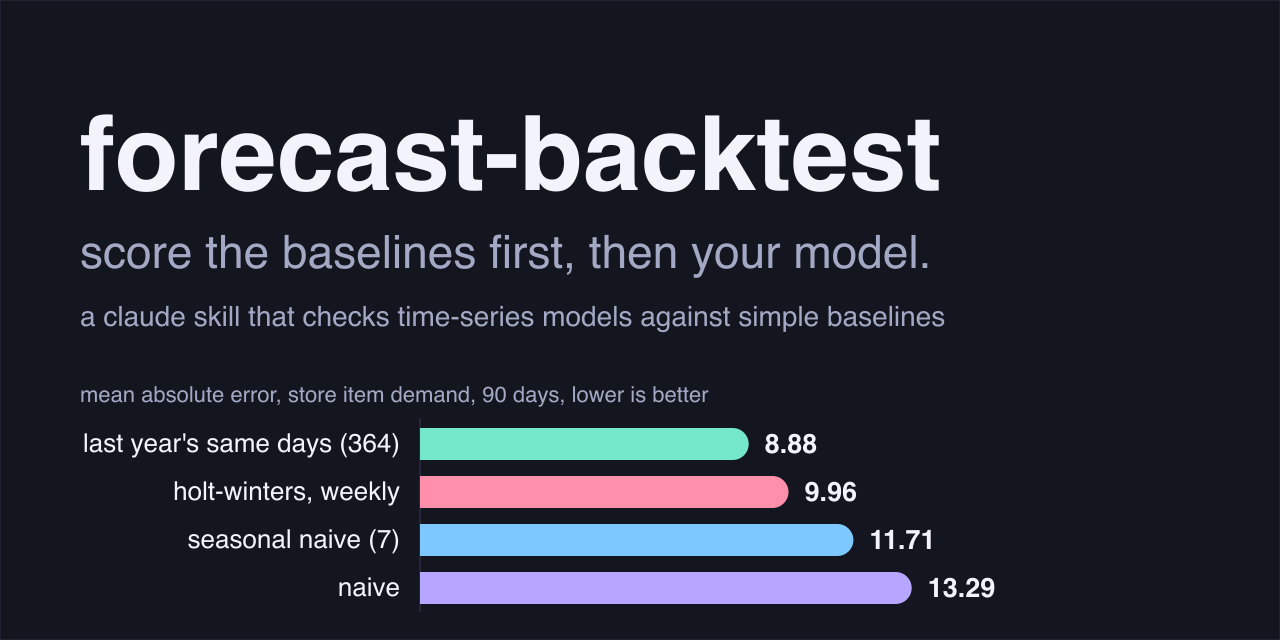
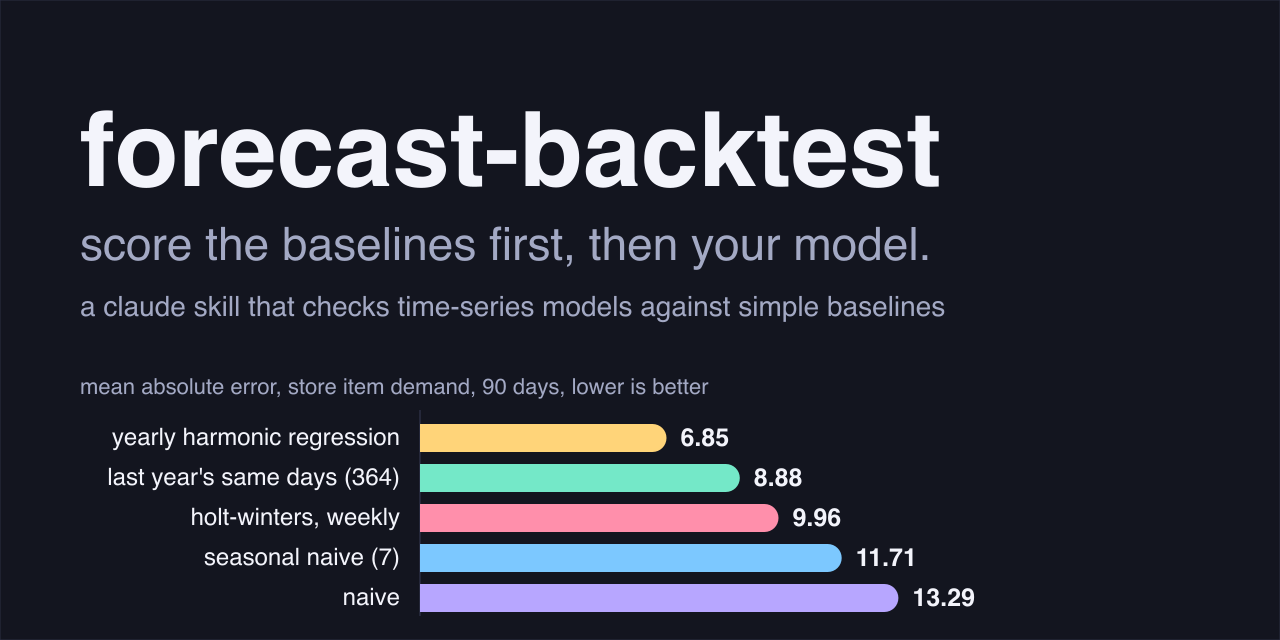
Add a Walmart example and put the yearly model in the chart
A third public dataset: Walmart weekly store sales with a 52-week damped Holt-Winters model (examples/ets_weekly.py), run through the repo file with the numbers shown in the README. The chart and the social card now include the yearly harmonic regression, 6.85 against 8.88 for last year's same days. The limit about the examples now names three datasets and says the ranking of models changes between them.

diff --git a/examples/ets_weekly.py b/examples/ets_weekly.py
@@ -1,0 +1,15 @@
+import numpy as np
+from statsmodels.tsa.holtwinters import ExponentialSmoothing
+
+
+def _fit(train):  # damped additive trend, additive seasonality over 52 weeks
+    return ExponentialSmoothing(train.asfreq("7D"), trend="add", damped_trend=True, seasonal="add", seasonal_periods=52).fit()
+
+
+def forecast(train, h):
+    return _fit(train).forecast(h)
+
+
+def forecast_interval(train, h, level):  # only needed for --level: percentiles of 1000 simulated paths
+    sims = np.asarray(_fit(train).simulate(h, repetitions=1000, error="add", random_state=0))
+    return np.percentile(sims, [(100 - level) / 2, 100 - (100 - level) / 2], axis=1)

diff --git a/README.md b/README.md
@@ -10,10 +10,10 @@ a claude skill that makes time-series forecasts prove themselves. claude scores 
 
 <picture>
   <source media="(prefers-color-scheme: dark)" srcset="assets/baseline-vs-model-dark.svg">
-  <img alt="mean absolute error on store item demand: last year's same days 8.88, weekly holt-winters 9.96, seasonal naive 11.71, naive 13.29" src="assets/baseline-vs-model-light.svg">
+  <img alt="mean absolute error on store item demand: yearly harmonic regression 6.85, last year's same days 8.88, weekly holt-winters 9.96, seasonal naive 11.71, naive 13.29" src="assets/baseline-vs-model-light.svg">
 </picture>
 
-on the store item demand data (500 daily series, 90-day horizon) a weekly holt-winters model beats the weekly seasonal naive baseline in 478 of 500 series. add last year's same days as a second baseline and it loses, with a mean absolute error of 9.96 against 8.88. the skill makes claude run both before it says a model works. the data is the [store item demand forecasting challenge](https://www.kaggle.com/c/demand-forecasting-kernels-only) on kaggle, which has its own rules and is not included here.
+on the store item demand data (500 daily series, 90-day horizon) a weekly holt-winters model beats the weekly seasonal naive baseline in 478 of 500 series. add last year's same days as a second baseline and it loses, with a mean absolute error of 9.96 against 8.88. the skill makes claude run both before it says a model works. a regression with a yearly term, `examples/yearly_harmonic.py`, reaches 6.85. the data is the [store item demand forecasting challenge](https://www.kaggle.com/c/demand-forecasting-kernels-only) on kaggle, which has its own rules and is not included here.
 
 ## install
 
@@ -23,7 +23,7 @@ clone it into your skills folder:
 git clone https://github.com/collisionattack/forecast-backtest ~/.claude/skills/forecast-backtest
 ```
 
-you need python 3.10 or newer, pandas 2.0 or newer and numpy. the ets example also needs statsmodels. ci runs the oldest and the newest of these on linux and windows.
+you need python 3.10 or newer, pandas 2.0 or newer and numpy. the ets examples also need statsmodels. ci runs the oldest and the newest of these on linux and windows.
 
 ## use
 
@@ -84,6 +84,31 @@ drift               13.279  1.584
 
 it beats last year's same days in all 500 series, and in the jan-mar window too (mae 5.82 against 7.52). this data looks like a smooth pattern plus poisson noise, which suits a fitted pattern: a rough poisson floor for the error is about 6.2, so little is left to gain here. demand with promotions or stock-outs is messier, and this result does not cover it.
 
+a third example is weekly retail data, [walmart store sales](https://www.kaggle.com/datasets/yasserh/walmart-dataset) (45 stores, 143 weeks from 2010 to 2012, cc0). the dates are day-first, the season is 52 weeks, and `examples/ets_weekly.py` is a damped holt-winters model:
+
+```bash
+python3 scripts/backtest.py Walmart.csv --date Date --date-format %d-%m-%Y --target Weekly_Sales --id Store \
+  --horizon 13 --season 52 --origins 3 --candidate examples/ets_weekly.py --level 80 95
+```
+
+```
+                       MAE   MASE
+candidate        42462.571  0.710
+seasonal_naive   58006.068  0.966
+naive           107891.470  1.781
+drift           116535.120  1.907
+
+candidate MASE 0.710 vs best baseline (seasonal_naive) 0.966: beats the baseline
+candidate beats the best baseline in 37 of 45 series
+
+prediction intervals of the candidate, over 45 series and 135 origins
+level  coverage  width (MASE units)
+   80     87.6%                3.00
+   95     96.3%                4.62
+```
+
+this holt-winters model has the yearly term (52 weeks) and beats the seasonal naive baseline in 37 of 45 stores. the weekly holt-winters on store item demand had no yearly term and lost to last year's same days.
+
 ## how it works
 
 <picture>
@@ -107,6 +132,7 @@ series with missing values, too little history or no variation in any window are
 | `scripts/backtest.py` | scores the baselines and your model | the numbers come from code, so claude reports measured errors |
 | `scripts/test_backtest.py` | checks for the scoring code, run with `python3 scripts/test_backtest.py` | a wrong backtest gives false confidence, so the metrics, the windows and the bad-input paths are tested in ci |
 | `examples/ets_monthly.py` | a model file with `forecast` and `forecast_interval` | shows the interface your own model file follows |
+| `examples/ets_weekly.py` | the same for weekly data with a 52-week season | the model behind the walmart example |
 | `examples/yearly_harmonic.py` | a model file for daily data with a weekly and a yearly pattern, numpy and pandas only | the yearly term is what beat last year's same days on store item demand, and the file is a starting point for your own daily model |
 | `assets/` | the images used here, each in a dark and a light version, and the social preview card | github shows the version that matches the reader's theme. the chart is drawn from the runs described above |
 
@@ -127,6 +153,6 @@ series with missing values, too little history or no variation in any window are
 ## limits
 
 - mase is undefined where a training window has no variation. that origin is left out, a series is skipped only when every origin is flat, and the run stops only when no series can be scored.
-- the numbers here come from air passengers and store item demand. they demonstrate the skill and say nothing about which model is best in general.
+- the numbers here come from three public datasets (air passengers, store item demand, walmart store sales). the ranking of models changes between them, so they demonstrate the skill and say nothing about which model is best in general.
 
 mit licensed, see [license](LICENSE).
